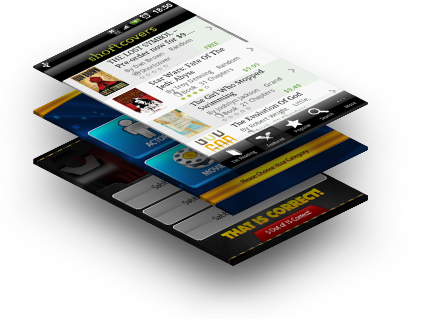
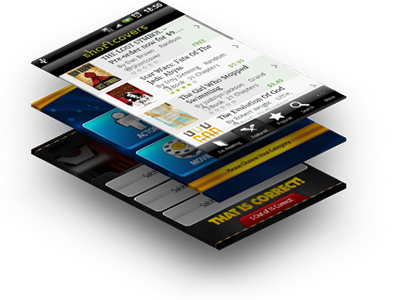
Shrink a few more images

diff --git a/index.html b/index.html
@@ -89,7 +89,7 @@
 					I write code to make computers do things. I've built devices, phone apps, websites and desktop applications.
 				</p>
 				<p class="profile-md">
-					I'm currently working on contract, revolutionizing reading. Here are a few words about some of the stuff I've made.
+					I'm currently working on contract, revolutionizing reading.
 				</p>
 				<p id="contact">
 					<a href="mailto:vasken@gmail.com"><img src="img/email.png" class="img-responsive" alt="Email" /></a>
@@ -106,7 +106,7 @@
 				<div class="col-md-6">
 					<a href="#page2">
 						<div id="content-devices" class="tile page1-heading page1-entry text-center animate">
-							<img src="img/devices.png" alt="devices" class="entry-img center-block img-responsive img-rounded">
+							<img src="img/devices.png" alt="devices" class="center-block img-responsive img-rounded">
 							Devices
 						</div>
 					</a>
@@ -114,7 +114,7 @@
 				<div class="col-md-6">
 					<a href="#page3">
 						<div id="content-apps" class="tile page1-heading page1-entry text-center animate">
-							<img src="img/apps-isometric.png" alt="apps" class="entry-img center-block img-responsive img-rounded">
+							<img src="img/apps-isometric.png" alt="apps" class="center-block img-responsive img-rounded">
 							Android Apps
 						</div>
 					</a>
@@ -124,7 +124,7 @@
 				<div class="col-md-6">
 					<a href="#page4">
 						<div id="content-sites" class="tile page1-heading page1-entry text-center animate">
-							<img src="img/websites.png" alt="sites" class="entry-img center-block img-responsive img-rounded">
+							<img src="img/websites.png" alt="sites" class="center-block img-responsive img-rounded">
 							Websites
 						</div>
 					</a>
@@ -132,7 +132,7 @@
 				<div class="col-md-6">
 					<a href="#page5">
 						<div id="content-desktop" class="tile page1-heading page1-entry text-center animate">
-							<img src="img/desktop.png" alt="desktop" class="entry-img center-block img-responsive img-rounded">
+							<img src="img/desktop.png" alt="desktop" class="center-block img-responsive img-rounded">
 							Desktop
 						</div>
 					</a>

diff --git a/css/style.css b/css/style.css
@@ -243,10 +243,6 @@ p {
 	background-color: #FFFFFF;
 }
 
-.entry-img {
-	max-height: 300px;
-}
-
 /********************************/
 /**				PAGE 2			*/
 .odd {
